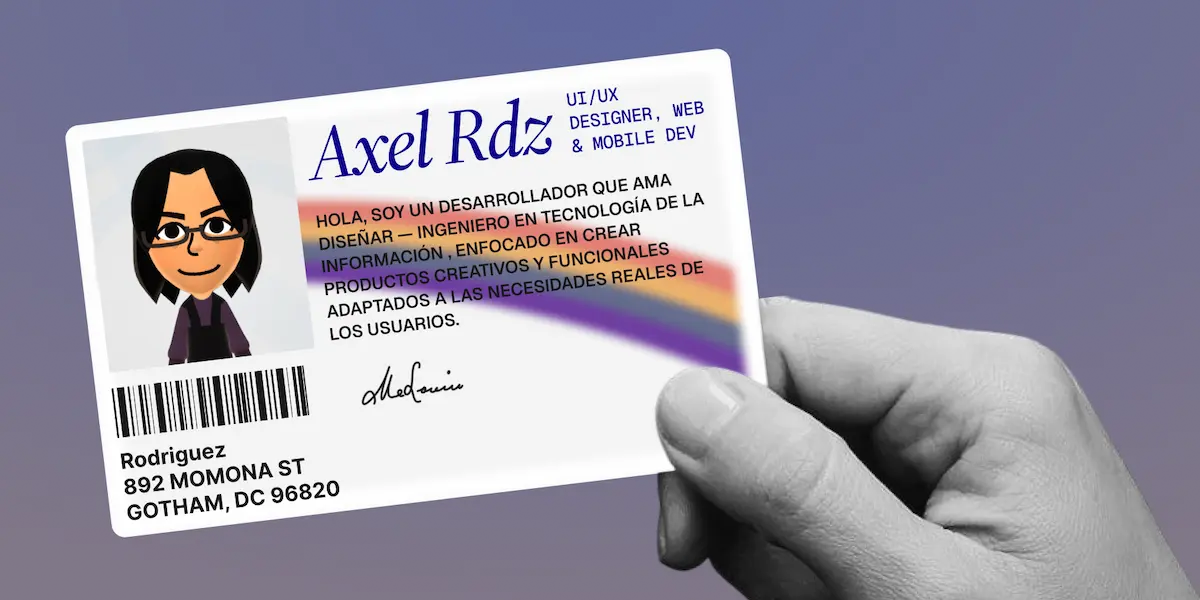
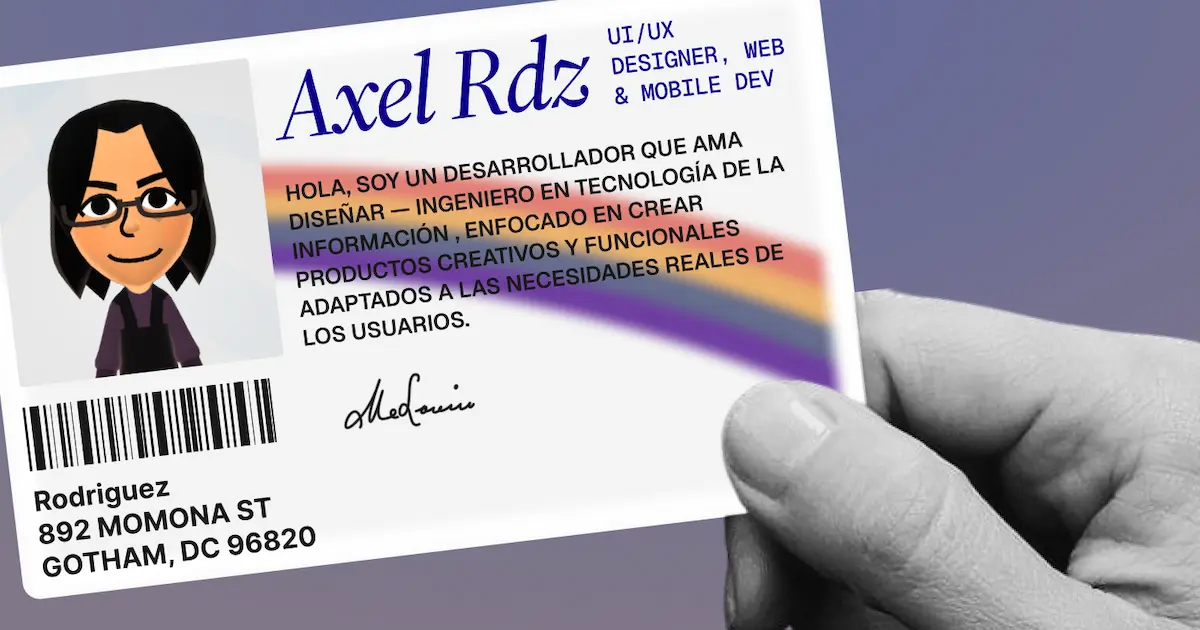
v0.4: new light theme | new opengraph

diff --git a/src/styles/global.css b/src/styles/global.css
@@ -4,10 +4,16 @@
 
 @theme {
   
+  --color-text-primary: var(--color-text-primary);
+  --color-text-secondary: var(--color-text-secondary);
+  --color-border: var(--color-border);
+  --color-divider: var(--color-divider);
+  --color-container: var(--color-border);
+
   --color-pinkpantheress-500: #B27476;
   --color-grape-500: #3C3A4D;
 
-  --font-source-serif: 'Source Serif 4', serif;; 
+  --font-source-serif: 'Source Serif 4', serif;
   --font-alexandria: 'Alexandria', sans-serif;
   --font-geist: 'Geist', sans-serif;
   --font-geist-mono: 'Geist Mono', monospace;
@@ -19,16 +25,29 @@
 }
 
 [data-theme="dark"] {
+  
+  --color-text-primary: #f9fafb;
+  --color-text-secondary: rgba(249, 250, 251, 0.7);
+  --color-divider: rgba(249, 250, 251, 0.3);
+  --color-border: rgba(249, 250, 251, 0.2);
+  --color-container: rgba(249, 250, 251, 0.05);
+
   --bg-color: rgb(38, 37, 42);
   --gradient-bg: 
-    radial-gradient(125% 125% at 50% 10%, rgb(31, 30, 35) 0%, rgb(42, 46, 65) 100%);
+    radial-gradient(125% 125% at 50% 10%, rgb(31, 30, 35) 0%, rgb(28, 32, 50) 100%);
 
 }
 
 [data-theme="light"] {
-  --bg-color: 757588;
+  --color-text-primary: #313131;
+  --color-text-secondary: rgba(46, 46, 46, 0.8);
+  --color-divider: rgba(46, 46, 46, 0.3);
+  --color-border: rgba(46, 46, 46, 0.15);
+  --color-container: rgba(46, 46, 46, 0.05);
+
+  --bg-color: #e0decd;
   --gradient-bg:
-    radial-gradient(225% 125% at 50% 10%, #7a7480 0%, #60689d 100%);
+    radial-gradient(400% 425% at 50% 10%, #EDEEF2 0%, #868686 100%);
 }
 
 /*
